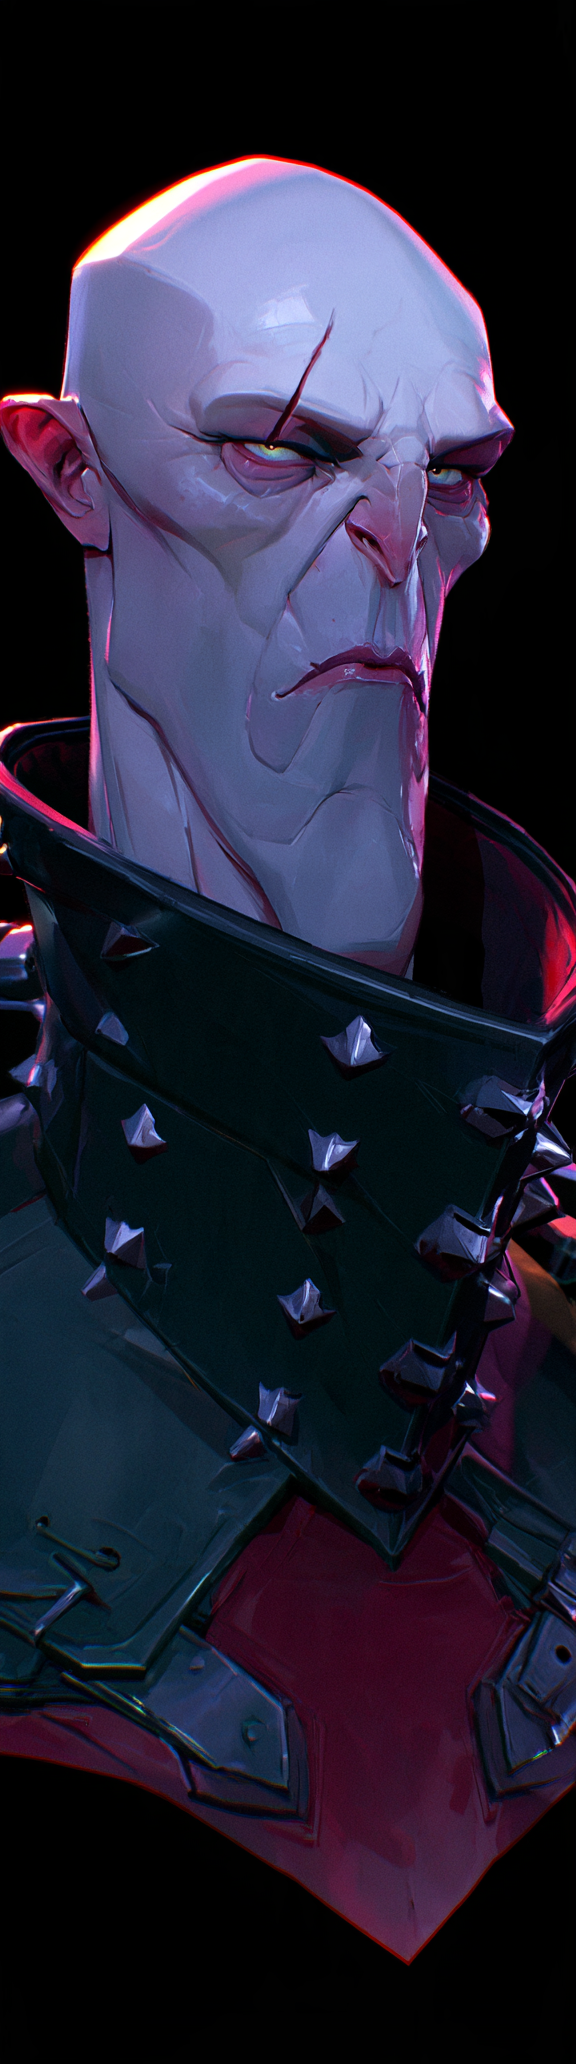
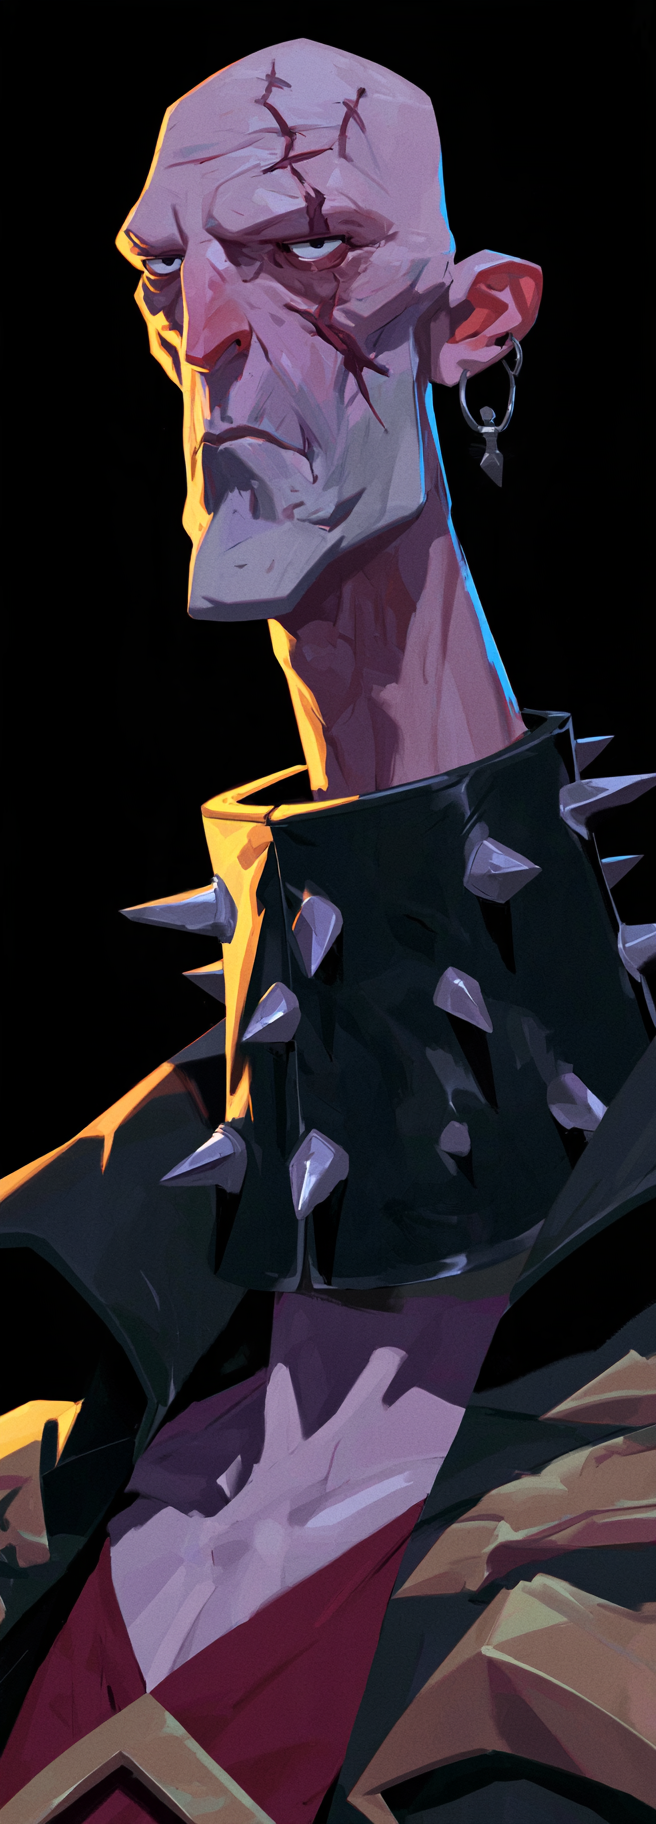
L'armurier passe a 0,36, et le chiffre suit le fichier
Keko a redessine Armurier.png en 656 x 1824, soit le rapport 0,36 : RAPPORT_PNJ
le reprend. Une colonne taillee pour un rapport que l'image n'a pas rouvre
exactement le vide qu'on venait de fermer, et c'est vrai dans les deux sens --
c'est la troisieme fois que le chiffre suit le dessin, jamais l'inverse.

0,36 est un MAXIMUM et pas un gout : la colonne est plafonnee a 24 % de la
largeur utile, donc au-dela de 0,372 ce plafond mord sur un iPhone SE couche et
le portrait, cadre sans rognage, retrecirait en hauteur.

Mesure : le portrait gagne 29 % de largeur (100 -> 129 px a 844x390, 327 -> 421
sur un ecran de PC), les cartes perdent 6 a 7 %, et le coffre gagne une rangee
entiere a 844x390 comme a 932x430. Cinq colonnes partout, zero debordement aux
six formats.

Le Charognard est reste a 0,279 : il remplit la hauteur et laisse 47 px de vide
de chaque cote sur un ecran de PC. A redessiner au meme gabarit -- la colonne
n'a qu'un rapport.

Claude-Session: https://claude.ai/code/session_01KZ9nCsdAx7LsxofMKnUAi4

diff --git a/src/render/armurerie-plan.ts b/src/render/armurerie-plan.ts
@@ -110,10 +110,17 @@ export const PILE = 0.5
  *
  * *Il a fait l'aller-retour* : 0,28 (le rapport conseillé), puis 0,40 quand
  * Keko a redessiné « pour bien occuper la colonne » sans l'avoir lu, puis 0,28
- * de nouveau une fois le dessin recadré. **Les deux fois, c'est le chiffre qui
+ * de nouveau une fois le dessin recadré. **Les trois fois, c'est le chiffre qui
  * a suivi le fichier** — jamais l'inverse.
+ *
+ * **IL VAUT 0,36 DEPUIS QUE KEKO A RÉÉLARGI L'ARMURIER** (656 x 1824), et ce
+ * chiffre n'est pas un goût : c'est **le plus large qui remplisse encore toute
+ * la hauteur sur tous les formats visés.** Au-delà, le plafond de largeur
+ * ci-dessous mord — à 0,372 sur un iPhone SE couché — et le portrait, cadré
+ * sans rognage, rétrécirait en hauteur : *exactement le vide qu'on venait de
+ * fermer.*
  */
-export const RAPPORT_PNJ = 0.28
+export const RAPPORT_PNJ = 0.36
 
 /**
  * LES ONGLETS DU COFFRE, dans l'ordre où on les lit.

diff --git a/CLAUDE.md b/CLAUDE.md
@@ -6063,9 +6063,29 @@ contre les quatre bords de sa toile.
 
 | | |
 |---|---|
-| rapport | **0,28** — celui de l'armurier. Un autre est possible, mais **il devient celui de tous** : la colonne n'en a qu'un |
-| taille | **~576 x 2064** — la colonne fait au plus 327 x 1169 px sur un écran de PC, et ~2000 de haut sur un 4K ou un portable haute densité |
+| rapport | **0,36** — celui de l'armurier, et **le plus large possible** (voir ci-dessous). Il est **celui de TOUS** : la colonne n'en a qu'un |
+| taille | **~656 x 1824** — la colonne fait au plus 421 x 1169 px sur un écran de PC, et ~2000 de haut sur un 4K ou un portable haute densité |
 | fichier | PNG **à canal alpha**, sujet seul, dans `public/` |
+
+**0,36 EST UN MAXIMUM, PAS UN GOÛT.** Keko : « j'ai l'impression que les
+portraits sont un peu trop étroits, ce serait quoi le ratio idéal pour occuper
+toute la hauteur en occupant un peu plus de largeur ? » La colonne est plafonnée
+à **24 % de la largeur utile** pour qu'un grand écran ne laisse pas le portrait
+manger le coffre : au-delà de **0,372** ce plafond mord sur un iPhone SE couché
+(0,399 sur un écran de PC), et le portrait — cadré sans rognage — **rétrécirait
+en hauteur**, ramenant exactement le vide qu'on venait de fermer. 0,36 garde 3 %
+de marge sur le format le plus serré.
+
+*Ce que le passage de 0,28 à 0,36 a coûté, mesuré* : le portrait gagne **29 % de
+largeur** (100 → 129 px à 844 x 390, 327 → 421 sur un écran de PC), les cartes
+perdent **6 à 7 %** — et le coffre **gagne une rangée entière** à 844 x 390 comme
+à 932 x 430, parce que des cases un peu plus petites en font tenir une de plus.
+Cinq colonnes partout, zéro débordement.
+
+**ET LE CHAROGNARD EST RESTÉ À 0,279**, donc il remplit la hauteur mais laisse
+47 px de vide de chaque côté sur un écran de PC. *La colonne n'a qu'un rapport*,
+donc tout PNJ qui ne l'a pas est centré et plus étroit : il est à redessiner au
+même gabarit. Rien ne casse en attendant — c'est la hauteur qui commande.
 
 Trois contraintes de dessin, et les deux premières ont une raison mécanique :
 
